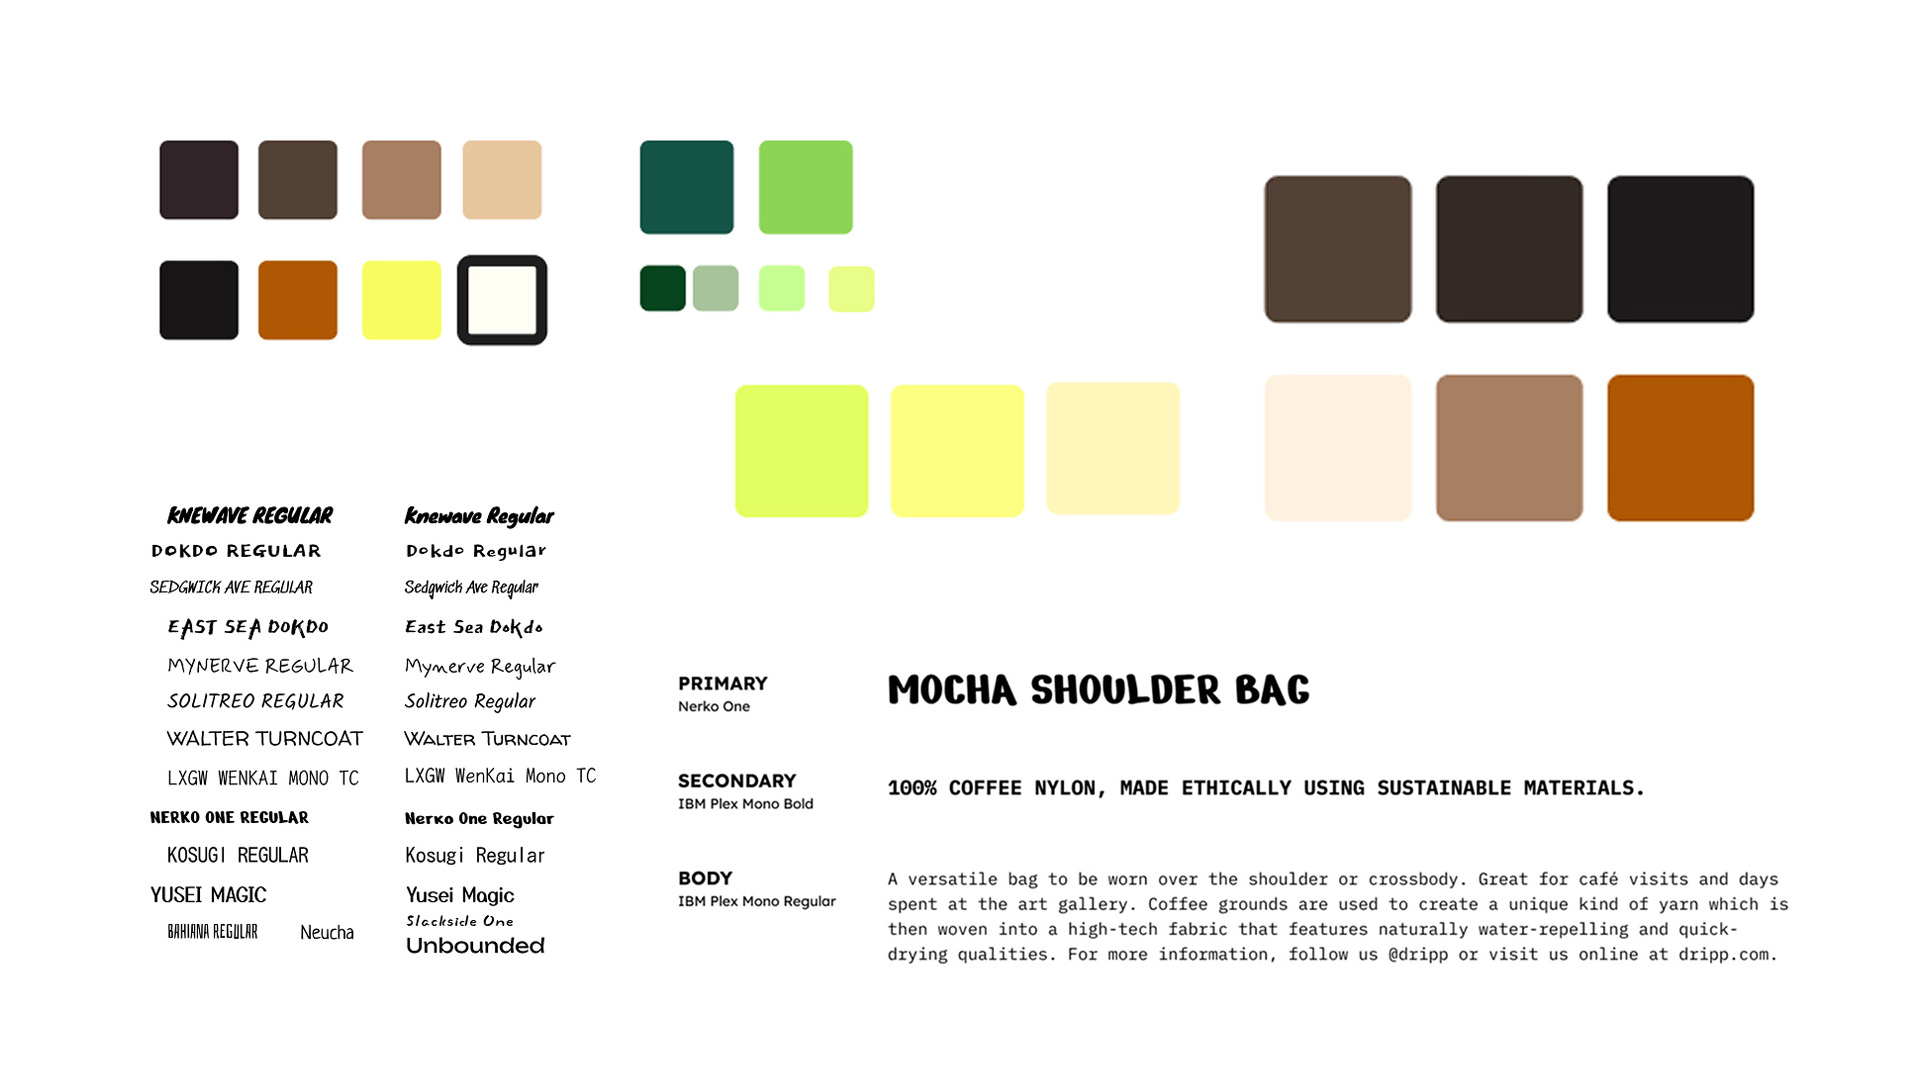
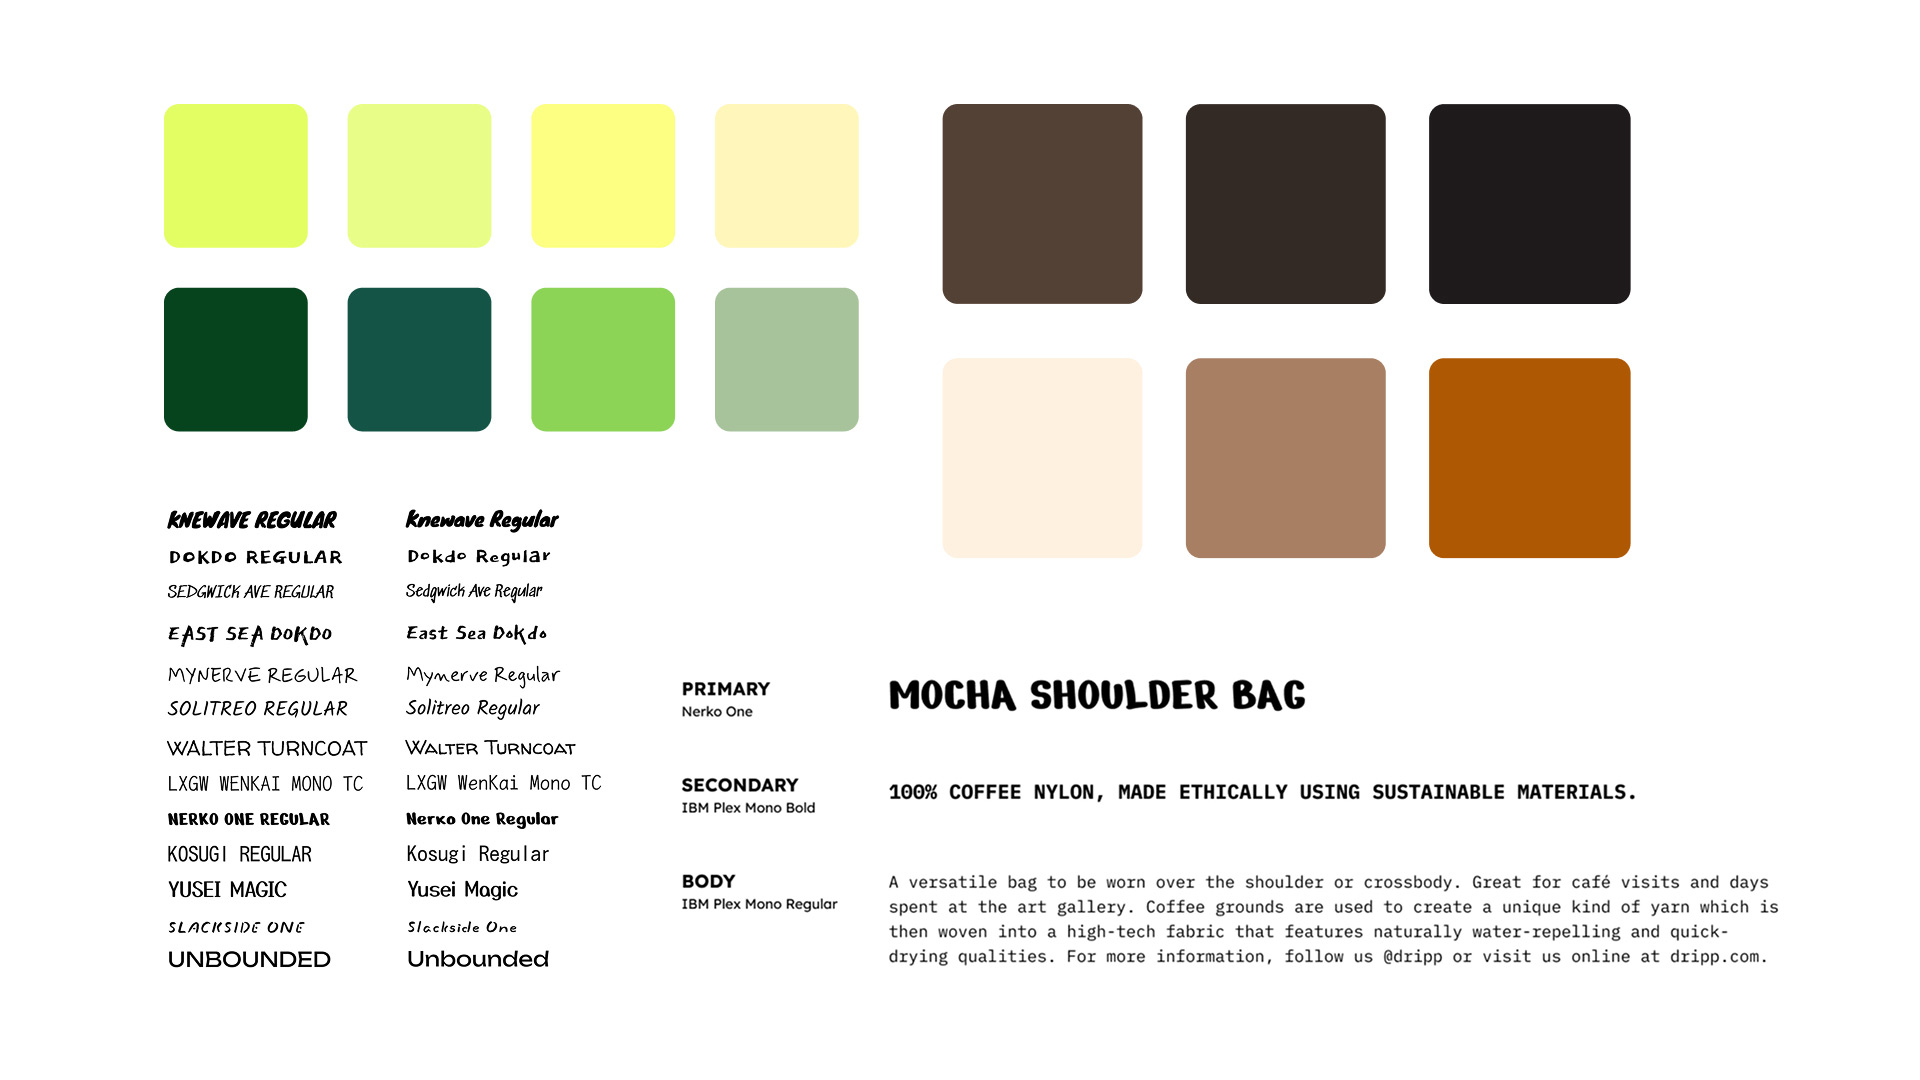
Photo Updates

diff --git a/index.html b/index.html
@@ -70,7 +70,7 @@
       </div>
     </section>
 
-<!--Work Grid Section (1900 x 1200)-->
+<!--Work Grid Section (1900 x 1200 Thumbnails)-->
     <main class="main-work-section">
       <section class="portfolio">
         <ul class="grid">
@@ -209,18 +209,18 @@
     <ul class="footer-global">
       <li class="footer-tagline">
         <h2>Let's Connect!</h2>
-        <h6><a href="mailto:hello@jordanvb.com" style="color: #ffffff" target="_blank">hello@jordanvb.com</a></h6>
+        <h6 class="email-link"><a href="mailto:hello@jordanvb.com" style="color: #ffffff" target="_blank">hello@jordanvb.com</a></h6>
       </li>
       <li class="footer-contact-social">
         <div class="footer-socials-list">
             <a href="https://www.instagram.com/jojovb.art" class="footer-item" target="_blank">
-              <img class="social-icon" src="assets/instagram-fa-icon-round-square.svg" alt="Instagram Icon">
+              <img class="social-icon" src="../assets/instagram-fa-icon-round-square.svg" alt="Instagram Icon">
             </a>
             <a href="https://www.linkedin.com/in/jordan-vanbergen" class="footer-item" target="_blank">
-              <img class="social-icon" src="assets/linkedin-fa-icon-round-square.svg" alt="LinkedIn Icon">
+              <img class="social-icon" src="../assets/linkedin-fa-icon-round-square.svg" alt="LinkedIn Icon">
             </a>
             <a href="https://www.behance.net/jordanvb" class="footer-item" target="_blank">
-              <img class="social-icon" src="assets/behance-fa-icon-round-square.svg" alt="Behance Icon">
+              <img class="social-icon" src="../assets/behance-fa-icon-round-square.svg" alt="Behance Icon">
             </a>
         </div>
       </li>
@@ -228,6 +228,7 @@
         <p class="footer-fineprint">
           &copy; <span id="copyright-years">2024-</span> | Jordan Van Bergen
         </p>
+        
         <script>
           document.getElementById("copyright-years").textContent +=
             new Date().getFullYear();

diff --git a/about.html b/about.html
@@ -116,7 +116,7 @@
     <ul class="footer-global">
       <li class="footer-tagline">
         <h2>Let's Connect!</h2>
-        <h6>
+        <h6 class="email-link">
           <a
             href="mailto:hello@jordanvb.com"
             style="color: #ffffff"
@@ -125,7 +125,6 @@
           >
         </h6>
       </li>
-
       <li class="footer-contact-social">
         <div class="footer-socials-list">
           <a
@@ -135,7 +134,7 @@
           >
             <img
               class="social-icon"
-              src="assets/instagram-fa-icon-round-square.svg"
+              src="../assets/instagram-fa-icon-round-square.svg"
               alt="Instagram Icon"
             />
           </a>
@@ -146,7 +145,7 @@
           >
             <img
               class="social-icon"
-              src="assets/linkedin-fa-icon-round-square.svg"
+              src="../assets/linkedin-fa-icon-round-square.svg"
               alt="LinkedIn Icon"
             />
           </a>
@@ -157,17 +156,17 @@
           >
             <img
               class="social-icon"
-              src="assets/behance-fa-icon-round-square.svg"
+              src="../assets/behance-fa-icon-round-square.svg"
               alt="Behance Icon"
             />
           </a>
         </div>
       </li>
-
       <li class="footer-full-width">
         <p class="footer-fineprint">
           &copy; <span id="copyright-years">2024-</span> | Jordan Van Bergen
         </p>
+
         <script>
           document.getElementById("copyright-years").textContent +=
             new Date().getFullYear();

diff --git a/styles/style.css b/styles/style.css
@@ -177,7 +177,7 @@
 html {
   box-sizing: border-box; /* Makes sure padding and borders don't add extra width to elements */
   scroll-behavior: smooth; /* Adds smooth scrolling between sections */
-  cursor: url("../assets/icons8-cursor.png"), auto !important; /* Custom cursor (change the URL below to use your own) */
+  cursor: url("../assets/round-cursor.svg"), auto !important; /* Custom cursor (change the URL below to use your own) */
 
   /* TODO: Replace the URL above to add a custom cursor. 
      If you want to use the default browser cursor, just delete this line. */
@@ -400,6 +400,7 @@ svg {
   justify-content: space-between;
   padding: var(--padding-small);
   align-items: flex-start;
+  font-weight: 400;
 }
 
 /* ------------------------------------------------------------------ */
@@ -989,6 +990,11 @@ a.nav-link-primary:hover {
 .social-icon {
   width: 4rem;
   height: 4rem;
+}
+
+.email-link {
+  text-decoration: underline;
+  color: #fff;
 }
 
 /* -------------------------------------------------------------------------- */

diff --git a/work/capstone.html b/work/capstone.html
@@ -132,7 +132,7 @@
     <ul class="footer-global">
       <li class="footer-tagline">
         <h2>Let's Connect!</h2>
-        <h6><a href="mailto:hello@jordanvb.com" style="color: #ffffff" target="_blank">hello@jordanvb.com</a></h6>
+        <h6 class="email-link"><a href="mailto:hello@jordanvb.com" style="color: #ffffff" target="_blank">hello@jordanvb.com</a></h6>
       </li>
       <li class="footer-contact-social">
         <div class="footer-socials-list">

diff --git a/work/lola's-kitchen.html b/work/lola's-kitchen.html
@@ -130,7 +130,7 @@
     <ul class="footer-global">
       <li class="footer-tagline">
         <h2>Let's Connect!</h2>
-        <h6><a href="mailto:hello@jordanvb.com" style="color: #ffffff" target="_blank">hello@jordanvb.com</a></h6>
+        <h6 class="email-link"><a href="mailto:hello@jordanvb.com" style="color: #ffffff" target="_blank">hello@jordanvb.com</a></h6>
       </li>
       <li class="footer-contact-social">
         <div class="footer-socials-list">

diff --git a/work/talus-magazine.html b/work/talus-magazine.html
@@ -131,7 +131,7 @@
     <ul class="footer-global">
       <li class="footer-tagline">
         <h2>Let's Connect!</h2>
-        <h6><a href="mailto:hello@jordanvb.com" style="color: #ffffff" target="_blank">hello@jordanvb.com</a></h6>
+        <h6 class="email-link"><a href="mailto:hello@jordanvb.com" style="color: #ffffff" target="_blank">hello@jordanvb.com</a></h6>
       </li>
       <li class="footer-contact-social">
         <div class="footer-socials-list">

diff --git a/work/dripp-coffee-gear.html b/work/dripp-coffee-gear.html
@@ -202,7 +202,7 @@
     <ul class="footer-global">
       <li class="footer-tagline">
         <h2>Let's Connect!</h2>
-        <h6>
+        <h6 class="email-link">
           <a
             href="mailto:hello@jordanvb.com"
             style="color: #ffffff"

diff --git a/work/theliar-literary-journal.html b/work/theliar-literary-journal.html
@@ -139,7 +139,7 @@
     <ul class="footer-global">
       <li class="footer-tagline">
         <h2>Let's Connect!</h2>
-        <h6>
+        <h6 class="email-link">
           <a
             href="mailto:hello@jordanvb.com"
             style="color: #ffffff"

diff --git a/work/vancouver-community-centre.html b/work/vancouver-community-centre.html
@@ -137,7 +137,7 @@
     <ul class="footer-global">
       <li class="footer-tagline">
         <h2>Let's Connect!</h2>
-        <h6>
+        <h6 class="email-link">
           <a
             href="mailto:hello@jordanvb.com"
             style="color: #ffffff"
